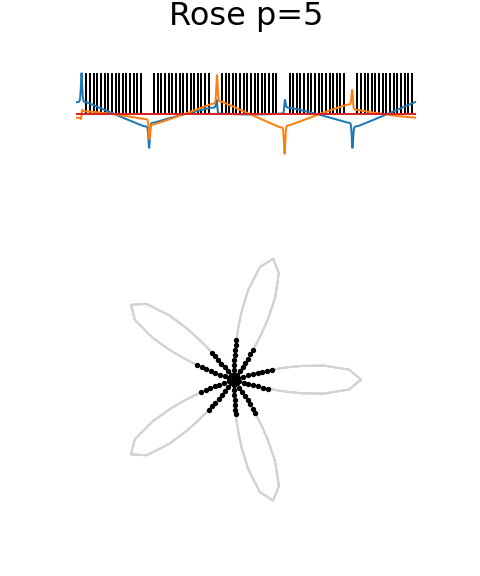
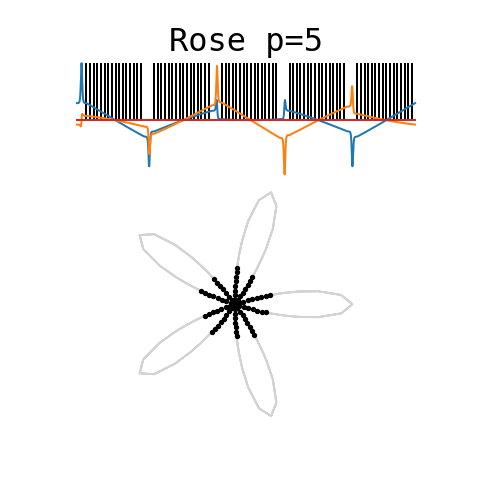
imgs again

diff --git a/scanpatterns/patterns.py b/scanpatterns/patterns.py
@@ -746,13 +746,13 @@ if __name__ == '__main__':
     
     for i, (pattern, title, fname) in enumerate(zip(patterns, titles, fnames)):
         
-        fig = plt.figure(i, constrained_layout=False, figsize=(5, 6))
+        fig = plt.figure(i, constrained_layout=False, figsize=(5, 5))
         
-        gs = fig.add_gridspec(nrows=3, ncols=1, hspace=1)
+        gs = fig.add_gridspec(nrows=3, ncols=1, hspace=0.01)
         ax1 = fig.add_subplot(gs[0, 0])
         ax2 = fig.add_subplot(gs[1:, 0])
 
-        ax1.set_title(title + '\n')
+        ax1.set_title(title, pad=2)
         ax1.plot(pattern.x)
         ax1.plot(pattern.y)
         ax1.stem(pattern.line_trigger, markerfmt='None', linefmt='black')
@@ -770,5 +770,6 @@ if __name__ == '__main__':
         ax2.set_yticks([])
         
         fig.savefig('img/' + fname, dpi=DPI)
+        
         plt.close(i)
     
